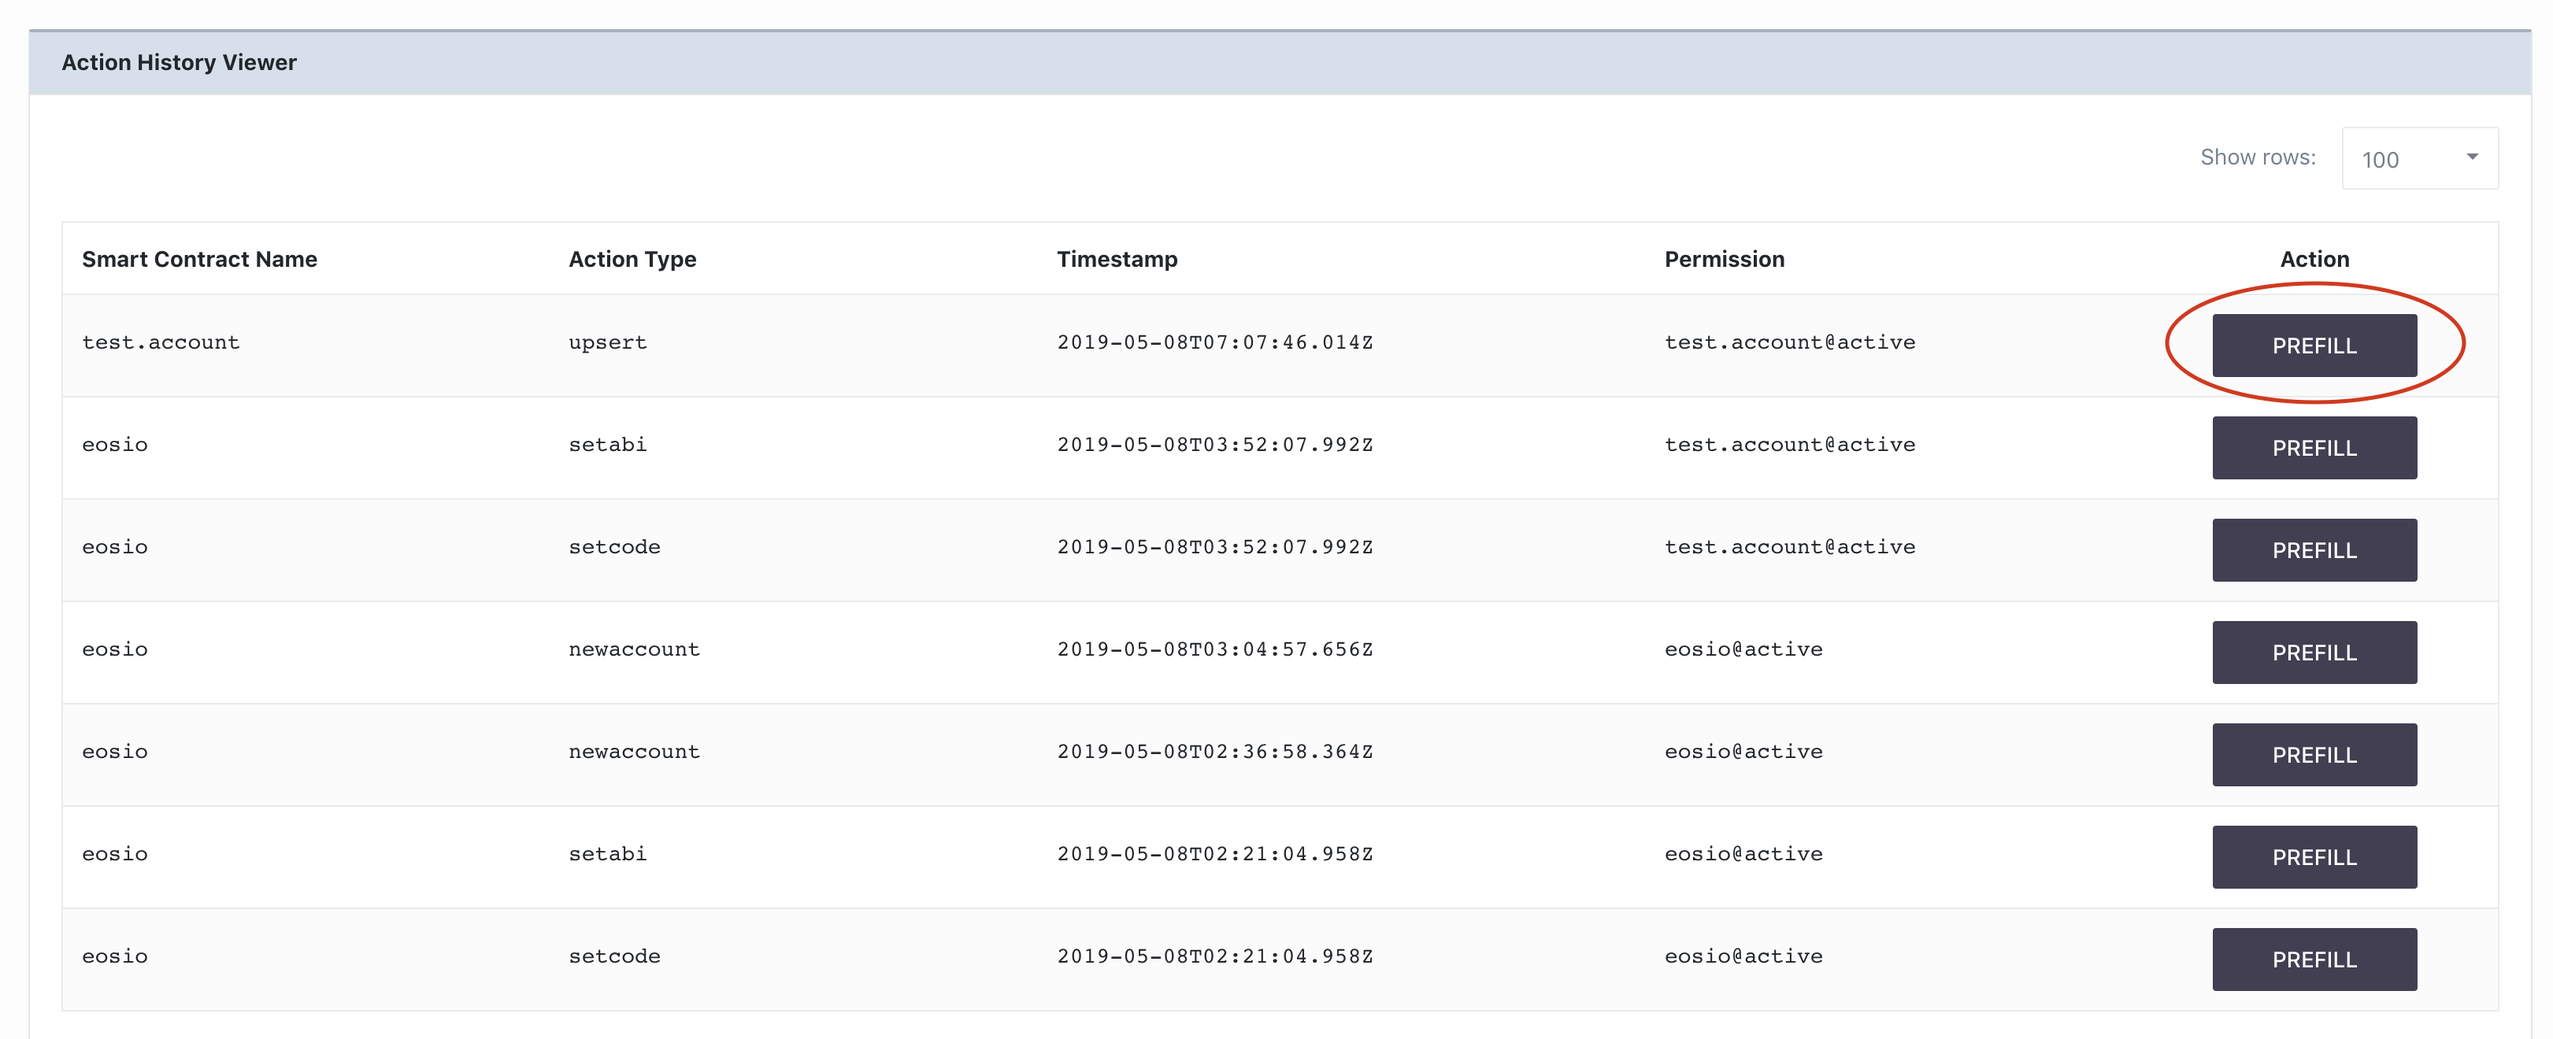
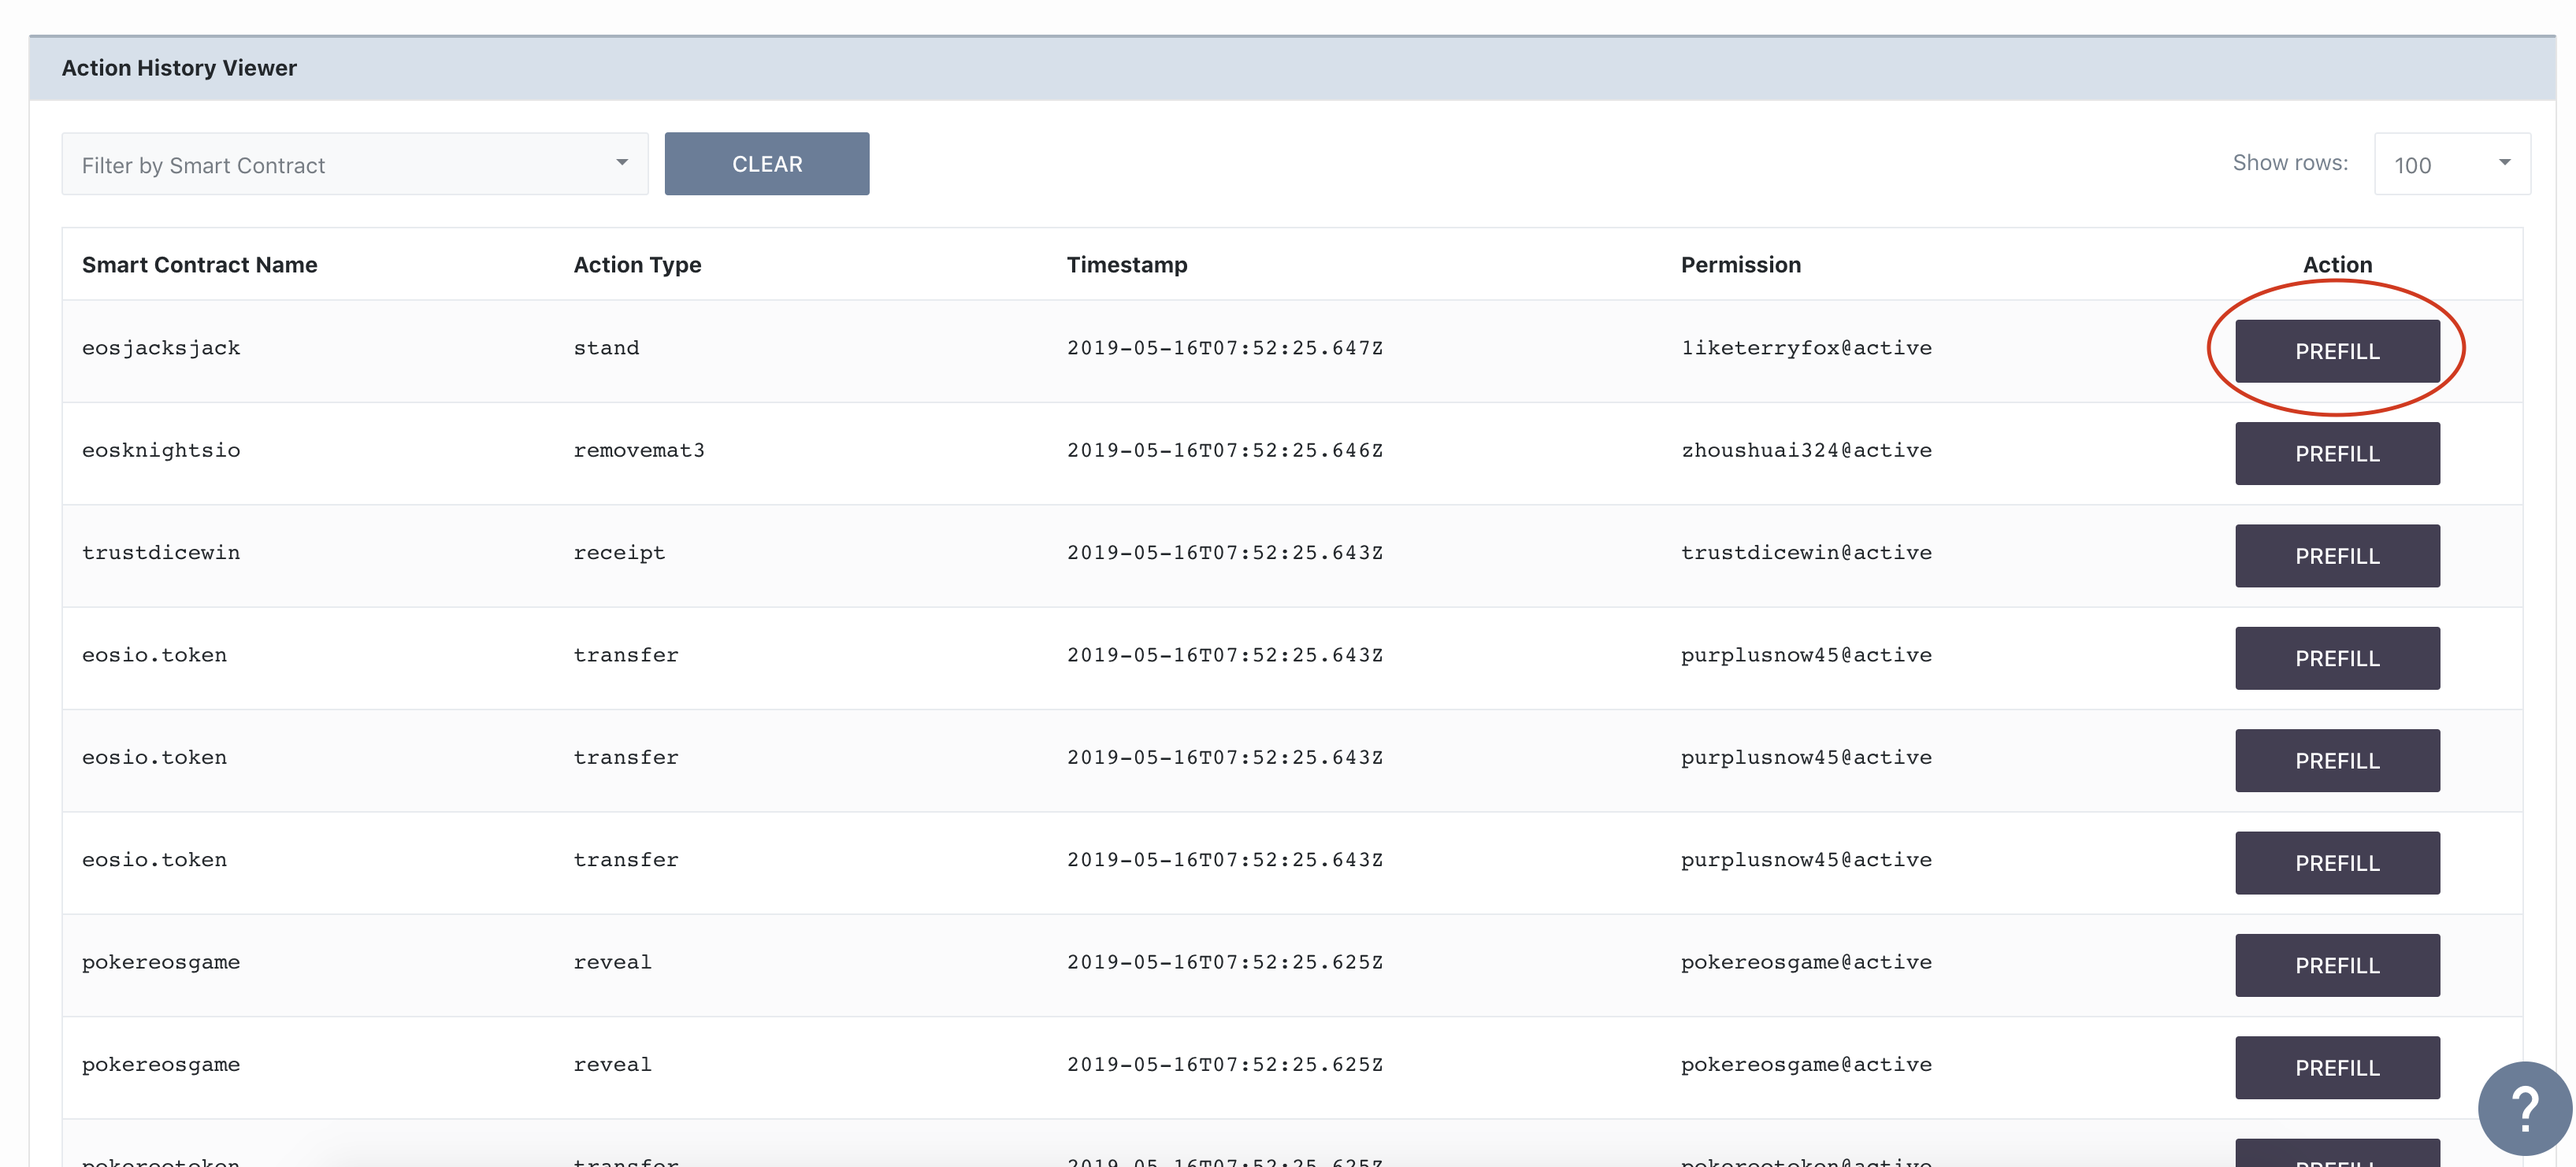
[...] Update outdated images, outdated text, added information about default Docker resources and more clarification on pm2

diff --git a/docs/pages/interact/manage-accounts-page.md b/docs/pages/interact/manage-accounts-page.md
@@ -13,9 +13,10 @@ To learn more about these panels, you can check the guide on managing accounts [
 ### Create Account
 
 Takes you to a new panel that allows you to create an account. Owner and active public and private key pairs will be generated for you in `base58 WIF` compliant format thanks to `eosjs-ecc`, allowing you to simply enter an account name that must follow the following rules:
-1. Exactly 12 characters
-2. Only consisting of the following characters: `.` (period), `[a-z]` (smallcaps alphabet) and `[1-5]` (numbers from 1 to 5) 
-3. Must start with a letter
+1. Only consisting of the following characters: `.` (period), `[a-z]` (smallcaps alphabet) and `[1-5]` (numbers from 1 to 5) 
+2. Only starting with `[a-z]` (smallcaps alphabet) or `[1-5]` (numbers from 1 to 5)
+
+:warning: - This is because invalid characters like `[A-Z]` (uppercase alphabet), `[6-9]` (numbers from 6 to 9) and non period special characters will either be converted to `.` (period) or silently swallowed by the blockchain, so we prevent the user from using these characters to enhance the experience. 
 
 Afterwards, click the "Submit" button and your account would be created successfully and be shown in the "Default Signature Account" panel. If there was an error, it will also be shown to you.
 
@@ -25,16 +26,18 @@ Upon first setup of this tool, the only account that should be in the "Default S
 
 ## Default Signature Account
 
-This panel contains the currently available accounts which have both public and private keys for the owner and active permissions. These accounts can be used for signing transactions and authorizing actions. Accounts will be listed in pairs, corresponding to the owner and active permissions. By each permission is a radio button allowing you to indicate which permission should be the default one used to sign transactions. An "Edit" button per account is also available in case you wish to review your keys or if your account's public key was changed from a different source.
+This panel contains the currently available accounts which have both public and private keys for the owner and active permissions. These accounts can be used for signing transactions and authorizing actions. Accounts will be listed in pairs, corresponding to the owner and active permissions. By each permission is a radio button allowing you to indicate which permission should be the default one used to sign transactions. An "Edit" button per account is also available in case you wish to review your keys or if you would like to change the public keys for any given reason (for example, your private keys were compromised and you wish to change them right away).
 
 ## Import Account
 
-The accounts in this panel do not have private keys assigned to them yet. You can click the "Import Keys" button to assign your private keys to these accounts. **Note**: Be sure that the private keys you import to the accounts here correspond to the public key fetched from the MongoDB. Otherwise you won't be able to do anything with them, even if you import keys. 
+The accounts in this panel do not have private keys assigned to them yet, whether it is both `owner` and `active` permissions or just one of them. You can click the "Import Keys" button to assign your private keys to these accounts. **Note**: Be sure that the private keys you import to the accounts here correspond to the public key fetched from the MongoDB. Otherwise you won't be able to do anything with them, even if you import keys. 
 
 ## Import/Edit Account Panel
 
-Accessible from clicking either "Edit" from the "Default Signature Account" panel or clicking "Import Keys" from the "Import Account" panel,you can paste in your private keys into the private key fields in this panel. 
+Accessible from clicking either "Edit" from the "Default Signature Account" panel or clicking "Import Keys" from the "Import Account" panel, you can paste in your private keys into the private key fields in this panel. If needed, you can also choose to change the public keys of your accounts in this panel (when clicking "Edit"). In this situation, please ensure that the public keys you use are `EOSKey` compliant. The `EOSKey` format is a public key format that is prefixed with the characters `EOS`. 
 
-Beforehand, kindlly ensure that the private keys you use are `base58 WIF` compliant. `WIF` stands for "Wallet Import Format" and is a convenience specification for copying and pasting private keys. The form will notify you if any of your keys are invalid upon submission. Please also ensure the private keys you import properly match the public keys listed here. Otherwise, you will not be able to authorize any actions with this account since the blockchain will not have the correct signatures for the declared authorization.
+Furthermore, kindly ensure that the private keys you use are `base58 WIF` compliant. `WIF` stands for "Wallet Import Format" and is a convenience specification for copying and pasting private keys. The form will notify you if any of your keys are invalid upon submission. Please also ensure the private keys you import properly match the public keys listed here. Otherwise, you will not be able to authorize any actions with this account since the blockchain will not have the correct signatures for the declared authorization.
 
 Your private keys will be saved locally in your browser. **However, please be sure NEVER to share your private key to anybody**. If someone asks you for your private key, please do not give it to them. Private keys are very sensitive information and should be kept to yourself as much as possible.
+
+You can read more on how to use this panel by viewing the [guide on importing private keys](../../guides/permissions/import_account.md) or the [guide on updating your public keys](../../guides/permissions/update_account.md) 

diff --git a/docs/guides/permissions/update_account.md b/docs/guides/permissions/update_account.md
@@ -1,0 +1,45 @@
+[Home](../..) > Guides > [Managing Accounts](README.md) > Update Account Keys
+
+# Update Account Keys
+
+For any number of reasons, you may find it desirable to change the public keys of your account, especially in cases of compromised private keys. 
+
+While this is a development tool, this possibility should never be discounted.
+
+In the Default Signature Account panel, you can see the list of accounts with public keys that you can change:
+
+![List of Accounts](../../images/permissions/accounts.png)
+
+After checking which account you want to update, click the "EDIT" button corresponding to that account.
+
+## Updating Keys
+
+For instance, let us assume you want to update an account with the name `dragonfruit`. You would click the "EDIT" button corresponding to the `dragonfruit` account, which would take you to this panel:
+
+![Update Keys](../../images/permission/edit_acc_before.png)
+
+:mag_right: 
+
+From here, there are three possible things you can do:
+
+1. Update only the public key of the `active` permission
+2. Update only the public key of the `owner` permission
+3. Update both `active` and `owner` public keys
+
+If you decide to click "SUBMIT" without changing anything, the form will inform you that the keys have not changed and thus no action will be performed.
+
+:mag_right:
+
+For purposes of this guide, let's assume you want to change both `active` and `owner` keys like this:
+
+![Filled Keys](../../images/permission/edit_acc_mid.png)
+
+:warning: - The form will check if your public and private keys are valid. It will also check if the private keys you supply correctly match the new public key that you have used.
+
+### On Success
+
+After pressing "SUBMIT", if the update has succeeded, you will see the success message:
+
+![Updated Keys](../../images/permission/edit_acc_after.png)
+
+If you want to verify that the action has really gone through, you can either check the [action list page](../../pages/action-list-page.md) for `updateauth` actions or check the latest transactions in the [transaction list page](../../pages/transaction-list-page.md). Transactions that have modified your public keys should contain one `updateauth` action if you have only modified one key and two `updateauth` actions if you have modified both keys. 

diff --git a/README.md b/README.md
@@ -68,6 +68,8 @@ The EOSIO Explorer is designed specifically to be a tool for local development. 
 * [Docker](https://www.docker.com/) with support at Docker Engine `18.09.2` (latest stable)
 * [Node.JS](https://nodejs.org/en/) with support at `^10.15.3` LTS (latest stable)
 
+:warning: - When using Docker for this tool, we require a minimum resource of **4 CPU, 8 GB memory** allocation.
+
 ## Installation
 
 ### For Users
@@ -167,12 +169,20 @@ You can also add the `-h` flag to any of the commands listed above to view the a
 
 ### Modes
 
-* Development mode sacrifices some performance but enables hot code reloading, allowing you to work on contributing to the project without rebuilding
+* Development mode sacrifices some performance but enables hot code reloading, allowing you to work on contributing to the project without rebuilding. This will not run as a background process.
 * Production mode serves a pre-rendered, pre-loaded version of the tool for speed and performance, and is for users of the tool.
 
 :warning: - The tool, in production mode, will run persistently in the background, meaning that you can choose to keep it running indefinitely. If you want to close the tool, you will need to kill the process which is listening on the port you specified in the configuration. By default, the production mode port is `5111`. You can use utilities like `netstat` and `lsof` to check this.
 
 If you want, you can globally install `pm2` to make managing this process easier, so you can run commands like `pm2 status` to check.
+
+#### Using `pm2`
+
+The quickest way to eliminate all processes on pm2 is to use `pm2 kill`. 
+
+Otherwise, you can check the list of processes with `pm2 list`, then use `pm2 delete <id>` to delete the specific processes you want. **You would need to use the process ID of `pm2`, not the process ID of your OS/machine**.
+
+The processes will be called `eosio compiler` for the compiler service and `eosio explorer` for the main tool.
 
 ## Links to Documentation
 

diff --git a/docs/guides/permissions/import_account.md b/docs/guides/permissions/import_account.md
@@ -26,11 +26,32 @@ Finally, you should ensure your private keys are in `base58 WIF` format. `WIF` i
 
 1. Any keys shown in this guide are **purely** for demonstration purposes. Do not use them for your own purposes.
 2. Do not blindly share your private keys with anyone else, or leave them exposed.
+3. **For development purposes**, if your keys are freely shared, keep in mind keys can be changed at any time. If your keys get lost due to someone else replacing the public key, you may or may not be able to get the replacement private key. If you do get it, see the section on [importing a single key](#importing-a-single-key).
 
-## On Success
+### On Success
 
 After successfully importing the keys, you will see the success messsage:
 
 ![Import Keys Panel](../../images/permissions/import_keys_after.png)
 
 Afterwards, you can see the new account in the main list of accounts.
+
+## Importing a Single Key
+
+If for some reason someone has changed the public key for the permission of an account you also own, you may find that your private key is lost, as the other person has already used their own private key.
+
+The account will then be listed in the Accounts to Import panel where you will need to click "Import Keys" as before. If one of the permissions has a modified public key, then your panel will likely look like this:
+
+![Import Single Keys Panel](../../images/permissions/import_single_key_before.png)
+
+If you are able to get the new private key, input as so:
+
+![Import Single Keys Panel Filled](../../images/permissions/import_single_key_before.png)
+
+### On Success
+
+Click Submit afterwards, if it worked, you will see the success message:
+
+![Import Keys Panel](../../images/permissions/import_single_key_after.png)
+
+Afterwards, you can gain control over your account in the main list of accounts.

diff --git a/docs/guides/push-action/README.md b/docs/guides/push-action/README.md
@@ -58,3 +58,15 @@ After clicking Prefill, you will automatically see the prefilled form as follows
 ![Prefilled Action](../../images/push-action/prefill-action.png)
 
 You can proceed to edit the form at your leisure or push the action again to test its behavior.
+
+## The Action History Viewer and Filtering by Smart Contract 
+
+If you are working on a blockchain with many deployed smart contracts, there is a chance that many actions are being processed and authorized simultaneously. In this case, it may be nice to be able to filter the list of past actions for a specific smart contract, normally one you are developing or working with.
+
+In the upper left corner of the panel, you can see a dropdown menu listing the currently available smart contracts with actions:
+
+![Filter Dropdown](../../images/push-action/filter.png)
+
+Here is what you should see if you, for instance, decided to check all actions belonging only to the `dinosaur1311` contract, showing 20 rows at a time:
+
+![Filter Result](../../images/push-action/filter_result.png)

diff --git a/docs/pages/interact/push-action-page.md b/docs/pages/interact/push-action-page.md
@@ -41,3 +41,5 @@ The Action History Viewer panel is a quick way to survey previously pushed actio
 * Permission (the actor which signed the action)
 
 Each row has a "PREFILL" button which users can click to automatically populate the Push Action panel with the same information used to push the specific action. This makes it easier for users to test the same action if the implementation has changed or for easily changing payload information. 
+
+On the upper left hand of the panel is a dropdown menu which allows you to filter this viewer by specific smart contracts. You can also choose to change the number of actions shown here at once. You can find more details on this in the sub-guide on [how to filter the action history viewer panel by smart contract](../../guides/push-action#the-action-history-viewer-and-filtering-by-smart-contract).

diff --git a/docs/guides/permissions/README.md b/docs/guides/permissions/README.md
@@ -12,6 +12,7 @@ Possible Actions:
 
 * [Creating a new Account](create_account.md)
 * [Importing Private Keys to an Existing Account](import_account.md)
+* [Updating the Public and Private Keys of an Existing Account](update_account.md)
 * Reset all Permissions - Click the button labeled "Reset all Permissions" to reset the list of accounts to its initial state. 
 
 :zap: - If you are connected to a `nodeos` instance created using this tool, you will see the default `eosio` system contracts account that ships with that blockchain. Otherwise, you will not see any accounts that are selectable for use. **You will also lose all private keys kept in your local storage** so please back them up before doing this!
